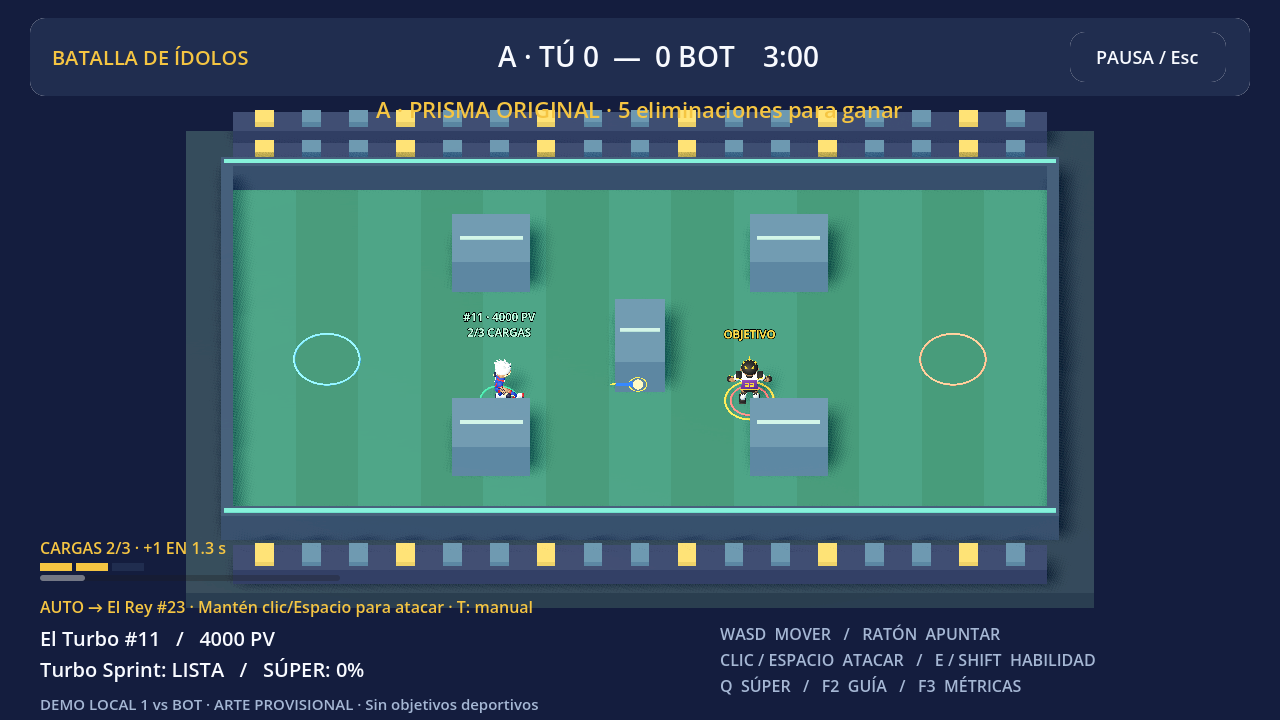
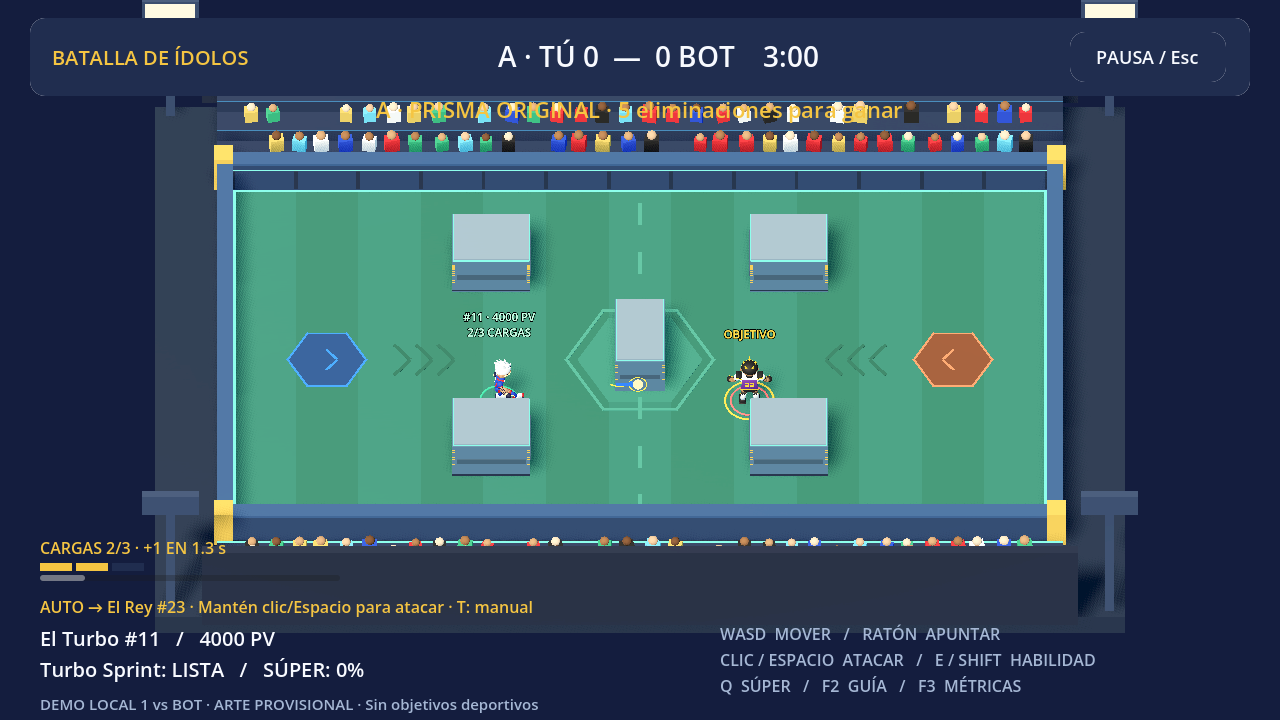
docs/arte: ARENA.md, efectos del Príncipe en VFX.md, capturas y manifest
Capturas antes/después de A y B (Mobile, BAJO, Compatibility), métricas
de draw calls y primitivas, verificación 8/0 del vestido y contrato de
los efectos del Príncipe para Codex.

Claude-Session: https://claude.ai/code/session_01T7ZWuJnwA1LxFSLsMyLdfE

diff --git a/docs/arte/ARENA.md b/docs/arte/ARENA.md
@@ -1,0 +1,77 @@
+# Arena «Prisma» A y B — refresh visual V2
+
+Estado: **V2 provisional**, original y pendiente de revisión del propietario. Solo
+presentación: colliders, `Rect2` de cobertura, apariciones y navegación no cambian.
+
+## Archivos
+
+| Archivo | Responsable | Cambio |
+|---|---|---|
+| `game/scripts/art/arena_dressing.gd` | Claude | Nuevo: vestido visual completo, construido desde `ArenaDefinition` |
+| `game/scripts/modes/pitch.gd` | **Codex (handoff)** | Colliders idénticos; con `dressed = true` (por defecto) añade `ArenaDressing` y omite el graybox. Con `false` vuelve el graybox anterior |
+| `art/lib/check_arena_dressing.gd` | Claude | Verifica que nada visual elevado invada la cancha fuera de la cobertura |
+| `art/lib/capture_arena.gd` | Claude | Capturas y métricas de A y B |
+
+## Dirección
+
+Identidad de ESTILO_3D: suelo jade, arquitectura azul tinta, líneas menta y acentos
+ámbar y coral. Formas abstractas, sin patrocinadores, escudos, textos ni marcas.
+
+- **Suelo:** franjas jade, borde menta, línea media discontinua, emblema hexagonal
+  «Prisma» en el centro y chevrones que apuntan al centro en cada mitad.
+- **Apariciones:** hexágono con contorno luminoso y flecha hacia el centro, azul para
+  el jugador y coral para el bot.
+- **Muros perimetrales:** mismas medidas que sus colliders, con remate, nervios,
+  franja de luz menta y cantoneras ámbar en las esquinas. Todo queda al ras de la
+  cara interior, sin invadir la cancha.
+- **Cobertura:** cuerpo **exacto** al `Rect2` y 1,5 m de alto (igual que el
+  collider), base oscura, franja media, cantoneras ámbar y remate claro con líneas
+  de luz. El color base sigue siendo `wall_color` de cada mapa.
+- **Gradas:** tres niveles con barandas luminosas, público con colores variados
+  (MultiMesh), muro trasero con pancartas abstractas y torres de luz decorativas
+  sin luces dinámicas.
+
+## Rendimiento (conteos medidos, no FPS)
+
+La geometría se agrupa en **tres mallas con color por vértice** (suelo, estructura
+y líneas de luz) más dos MultiMesh para el público. Frame completo de la arena con
+Turbo, Rey y HUD (Godot 4.7.2, Xvfb, CPU sin GPU real):
+
+| | Antes (graybox) | V2 ALTO | V2 BAJO |
+|---|---|---|---|
+| Draw calls Forward Mobile | 123 (A) / 127 (B) | **24 / 24** | 24 / 24 |
+| Draw calls Compatibility | 253 (A) / 261 (B) | **51 / 51** | — |
+| Primitivas | ≈15.100 | ≈31.300 / 32.600 | ≈18.400 / 18.500 |
+
+Más polígonos (sobre todo el público) pero muchos menos draw calls, que suelen ser
+el cuello de botella en móvil. En BAJO solo queda la primera fila de público y el
+vestido no proyecta sombras. **No acredita FPS ni rendimiento Android.**
+
+## Verificaciones
+
+- `art/lib/check_arena_dressing.gd`: **8/0**. Para A y B comprueba el dressing
+  presente, todos los colliders de cobertura intactos, ningún vértice visual
+  elevado dentro de la cancha fuera de un `Rect2` (tolerancia 2 cm) y las cuatro
+  esquinas superiores exactas de cada `Rect2`. En su primera ejecución detectó
+  cantoneras y nervios que invadían 11 y 2,5 cm; se corrigieron antes del commit.
+- `tools/verify.py --pack`: 192/192, incluidas las 40 pruebas de mapas (física y
+  navegación por `Rect2`).
+
+## Evidencia
+
+- A: [antes](../captures/arena-v2/antes-mobile-prisma-a.png) · [V2 Mobile](../captures/arena-v2/mobile-prisma-a.png) · [ampliación](../captures/arena-v2/mobile-prisma-a-zoom.png) · [BAJO](../captures/arena-v2/mobile-prisma-a-bajo.png) · [Compatibility](../captures/arena-v2/compat-prisma-a.png)
+- B: [antes](../captures/arena-v2/antes-mobile-prisma-b.png) · [V2 Mobile](../captures/arena-v2/mobile-prisma-b.png) · [ampliación](../captures/arena-v2/mobile-prisma-b-zoom.png) · [BAJO](../captures/arena-v2/mobile-prisma-b-bajo.png) · [Compatibility](../captures/arena-v2/compat-prisma-b.png)
+
+```bash
+godot --headless --path game --script ../art/lib/check_arena_dressing.gd
+xvfb-run -a -s "-screen 0 1280x720x24" godot --path game --audio-driver Dummy --fixed-fps 60 \
+  --script ../art/lib/capture_arena.gd -- --output=/tmp/arena [--low]
+```
+
+## Pendientes
+
+- La fila superior del público queda detrás del mensaje de arena del HUD (UI de
+  Codex). En ALTO compite con el texto; en BAJO se lee limpio. Se revisará en el
+  refresh de HUD.
+- Animar al público (balanceo) se dejó fuera por coste; evaluar en hardware real.
+- El campo de tiro usa la arena A y hereda el vestido.

diff --git a/docs/arte/VFX.md b/docs/arte/VFX.md
@@ -81,6 +81,28 @@ xvfb-run -a -s "-screen 0 1280x720x24" godot --path game --audio-driver Dummy --
   --script ../art/lib/check_projectile_core.gd -- --output=/tmp/nucleo [--low]
 ```
 
+## Efectos preparados para el Príncipe #20 (sin gameplay todavía)
+
+Según `docs/PRINCIPE_KIT.md` (propuesta pendiente de aprobación). Codex los llamará
+al implementar `codex/principe-gameplay`; hoy no se usan en partida.
+
+| `kind` | Uso | Lectura visual |
+|---|---|---|
+| `principe_shot` | Pulso Certero | Destello rojo y claro, estrecho, por encima del cuerpo |
+| proyectil | Vuelo del básico | Núcleo claro visible, halo rojo menor detrás, retícula fina y estela **recta** |
+| `principe_buff` | Impulso Táctico | Anillo rojo, chevrones que suben a los costados y texto **«PODER +20 %»**; sigue al héroe |
+| `principe_field_warning` | Aviso de 0,6 s | Contorno del radio real, anillo que se cierra como cuenta atrás, marcador central y flechas hacia adentro |
+| `principe_field` | Campo de Dominio, 3 s | Pulso hasta el radio, zona opaca a ras de suelo y marcas de lentitud que giran |
+
+Contrato para Codex:
+- Los campos se colocan en el **centro del área**, no en el actor (por ejemplo,
+  con `spawn_effect_at`). Hay que pasar `radius` (3 m) y `duration` (0,6 s y 3 s).
+- La mejora usa `follow` y puede recibir `duration`.
+- `ProjectileVisual` elige el estilo según el `definition.id` de quien dispara y
+  toma el tamaño del radio real del collider, sin valores fijos de Turbo.
+
+Captura: [ficha del Príncipe](../captures/vfx-v1/mobile-01b-efectos-principe.png).
+
 ## Presupuesto y perfiles
 
 - Sin luces dinámicas, sombras ni texturas. Materiales sin iluminación, compartidos

diff --git a/game/assets/README.md b/game/assets/README.md
@@ -8,7 +8,7 @@
 | Pitbull — `models/pitbull/pitbull.glb` | Original, Claude Code, 2026-10-30. `art/pitbull/build_pitbull.py` + kit común. Fuente `.blend` en `art/pitbull/` | **Muestra V0 solo arte**, dorsal 17; sin `.tres` ni gameplay | Ficha C2 (Codex) |
 | Clips idle/run/kick/hit/celebrate de los cuatro | Keyframes originales en los generadores; bucles en los `.glb.import` | Provisionales | Ajuste tras playtest |
 | Materiales `M_Turbo_*`, `M_Rey_*`, `M_Principe_*`, `M_Pitbull_*` (6 + 6 + 6 + 7) | Colores planos originales dentro de cada GLB, sin texturas | Provisionales | — |
-| Arena Prisma | Geometría original en `pitch.gd` | Graybox 3D provisional | Escena artística con colisiones compatibles |
+| Arena Prisma A/B | Original, Claude Code, 2026-10-30: `scripts/art/arena_dressing.gd` (geometría procedural y MultiMesh de Godot, sin texturas); colliders en `pitch.gd` | **V2 visual provisional**, pendiente de revisión | Ajuste tras playtest (docs/arte/ARENA.md) |
 | VFX de combate (disparo, proyectil, sprint, súper, golpe, embestida, onda, impacto, escudo, cobertura, eliminación) | Originales, Claude Code, 2026-10-30, en `scripts/vfx/` (geometría y partículas de Godot, sin texturas) | **VFX V1 provisionales**, pendientes de revisión | Ajuste tras playtest (docs/arte/VFX.md) |
 | Ícono `ui/icono_provisional.png` | Original, render Cycles del busto de Turbo (`art/lib/render_icon.py`) | Provisional, sin enlazar | Identidad de app definitiva |
 | UI | Controles Godot, diseño original en `scripts/ui/` | Interfaz funcional provisional | Producción artística coordinada |
